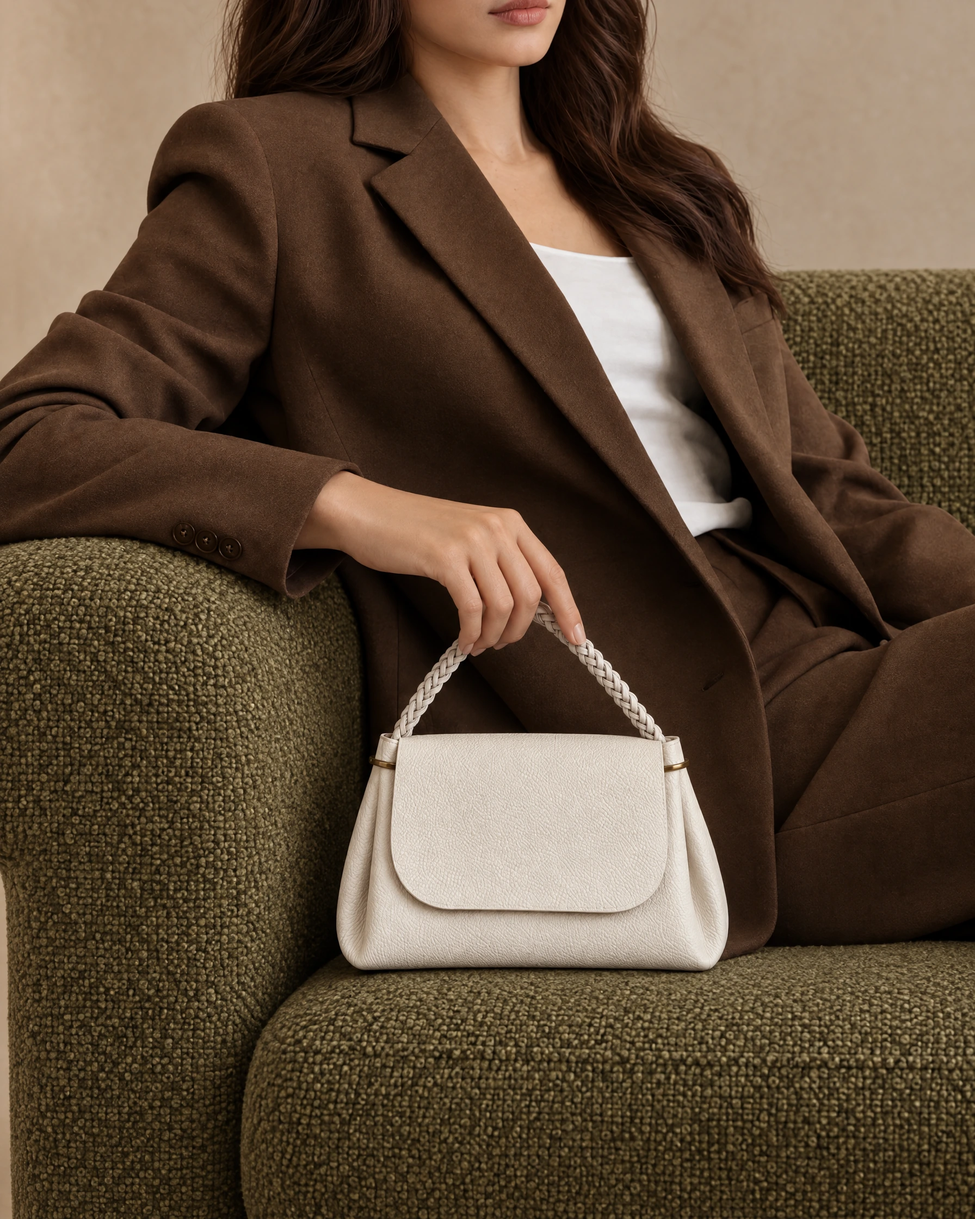
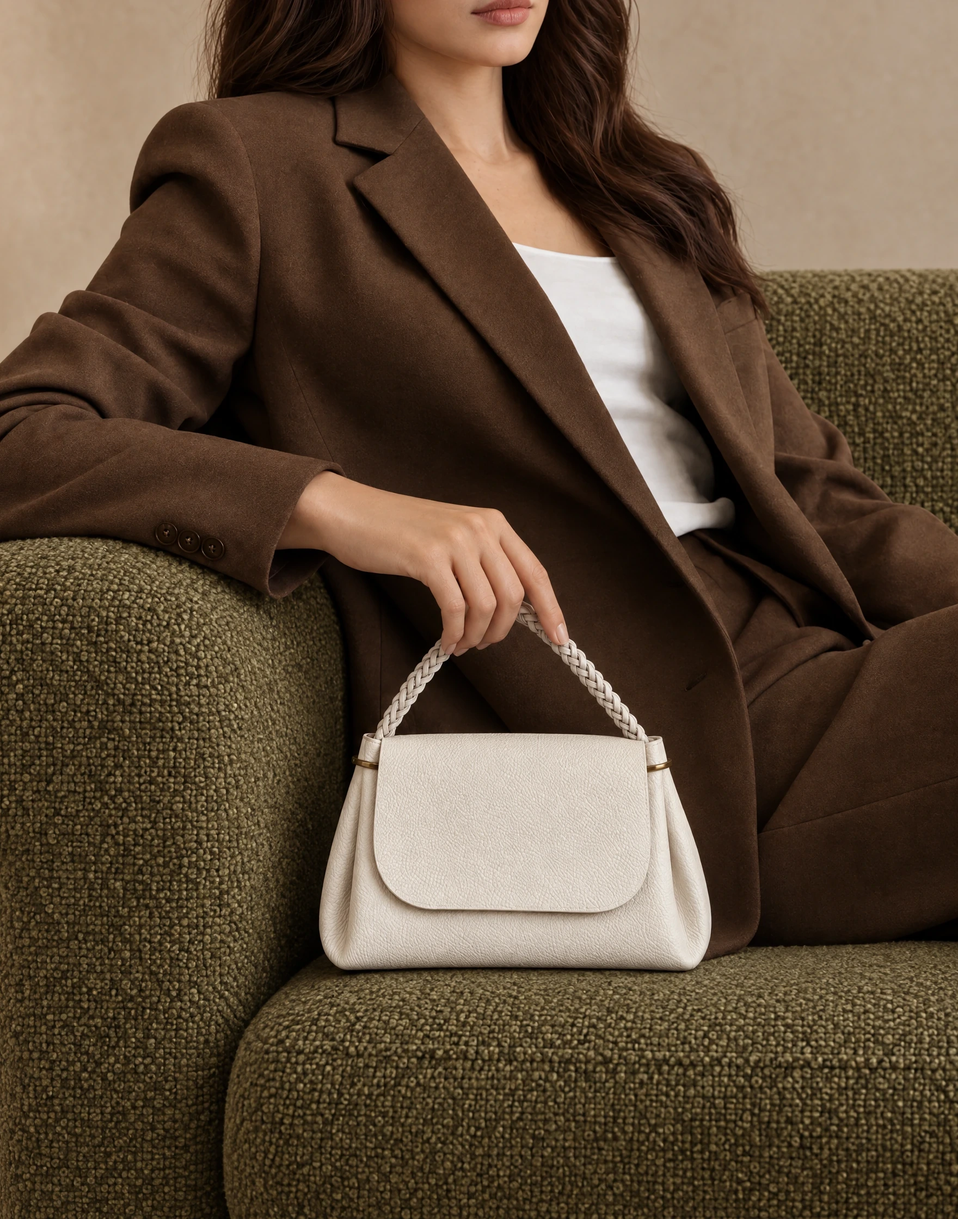
白包橄欖綠沙發圖：裁掉左邊 32px，去掉左下角露出的牆縫

diff --git a/src/data/catalog.ts b/src/data/catalog.ts
@@ -287,7 +287,7 @@ const buildCatalog = (lang: Locale) => {
   // (user 2026-10-05: 「重新算這張圖，攝影風格依照剛才的筷架情境照」 for CV-0248)
   const listingSceneSite: Record<string, Img> = {
     // 白包的沙發人物情境：棕色皮沙發換成橄欖綠毛圈布沙發（使用者 2026-10-06：「這2張換」）
-    "braided-leather-bag-white": site("scene-white-bag-olive-sofa-woman.webp", t("棕色西裝的女子靠坐在橄欖綠毛圈布沙發上，手握白色編織提把皮革包的提把，包放在坐墊上", "A woman in a brown blazer leans back on an olive bouclé sofa, holding the braided handle of the white Braided Leather Bag as it rests on the seat"), 1792, 2240),
+    "braided-leather-bag-white": site("scene-white-bag-olive-sofa-woman.webp", t("棕色西裝的女子靠坐在橄欖綠毛圈布沙發上，手握白色編織提把皮革包的提把，包放在坐墊上", "A woman in a brown blazer leans back on an olive bouclé sofa, holding the braided handle of the white Braided Leather Bag as it rests on the seat"), 1760, 2240),
     // a new lifestyle scene (user 2026-10-05: 「我現在要做豐盛點心盤的生品情境照」): the stand with a few petits fours and goldfish tea on an oak table, olive sofa in front
     // v3 (user 2026-10-05): the bottom tier widened to the real piece's 38 : 71 : 100 and the painting navy; v2: an orange wall, a white gold-rimmed cup, a piped-cream tartlet, a fiddle-leaf fig
     "prosperity-dessert-stand": site("scene-dessert-stand-oak-table-tea-v3.webp", t("燒橘色牆面的溫暖客廳，牆上一幅海軍藍的畫，橡木圓桌上的豐盛點心盤擺著幾樣小點心，旁邊一杯白瓷金邊杯泡的小金魚茶，後方是琴葉榕，前景是橄欖綠毛圈沙發", "In a warm room with a burnt-orange wall and a navy painting, the Abundance Dessert Tray on a round oak table with a few petits fours, goldfish tea in a white gold-rimmed cup, a fiddle-leaf fig behind and an olive bouclé sofa in front"), 1792, 2240),

diff --git a/src/data/content.ts b/src/data/content.ts
@@ -82,7 +82,7 @@ const buildContent = (lang: Locale) => {
         views: [
           { label: t("正面", "Front"), en: "FRONT", image: gallery("CV-0398", t("編織提把皮革包・白色正面", "Braided Leather Bag in white, front view"), 1122, 1402) },
           { label: t("斜側面", "Three-quarter"), en: "THREE-QUARTER", image: gallery("CV-0400", t("編織提把皮革包・白色斜側面", "Braided Leather Bag in white, three-quarter view"), 1122, 1402) },
-          { label: t("情境", "In context"), en: "EDITORIAL", image: site("scene-white-bag-olive-sofa-woman.webp", t("編織提把皮革包・白色，橄欖綠沙發手提情境", "Braided Leather Bag in white, held by hand on an olive sofa"), 1792, 2240) },
+          { label: t("情境", "In context"), en: "EDITORIAL", image: site("scene-white-bag-olive-sofa-woman.webp", t("編織提把皮革包・白色，橄欖綠沙發手提情境", "Braided Leather Bag in white, held by hand on an olive sofa"), 1760, 2240) },
           { label: t("靜物", "Still life"), en: "STILL LIFE", image: gallery("CV-0426", t("編織提把皮革包・白色與藍色，紙捲雕塑靜物", "Braided Leather Bags in white and blue, a still life with paper-roll sculptures"), 896, 1120) },
         ],
       },
